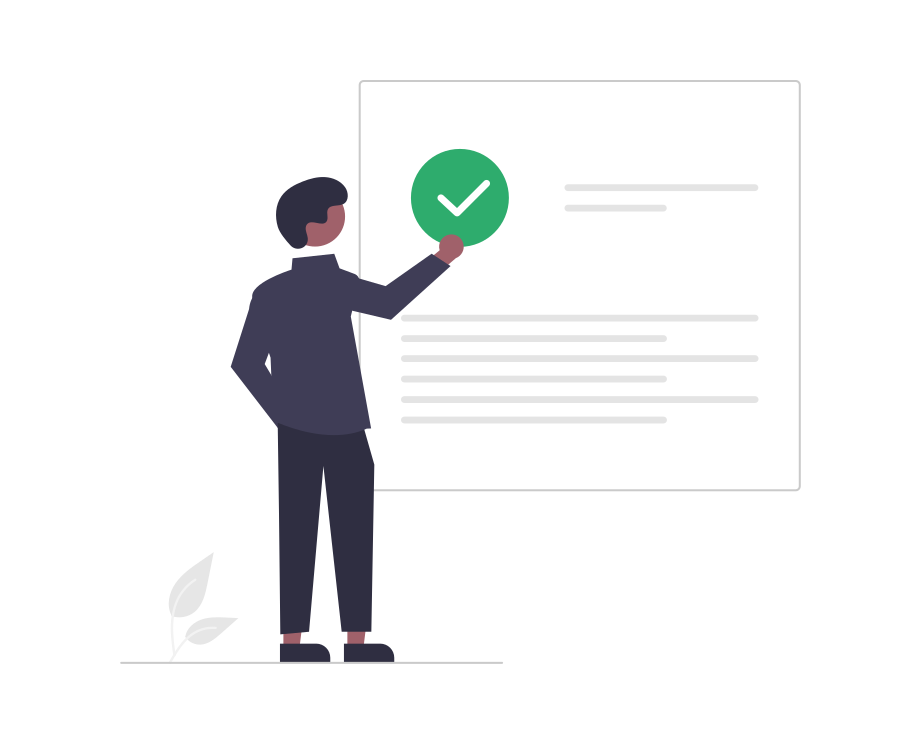
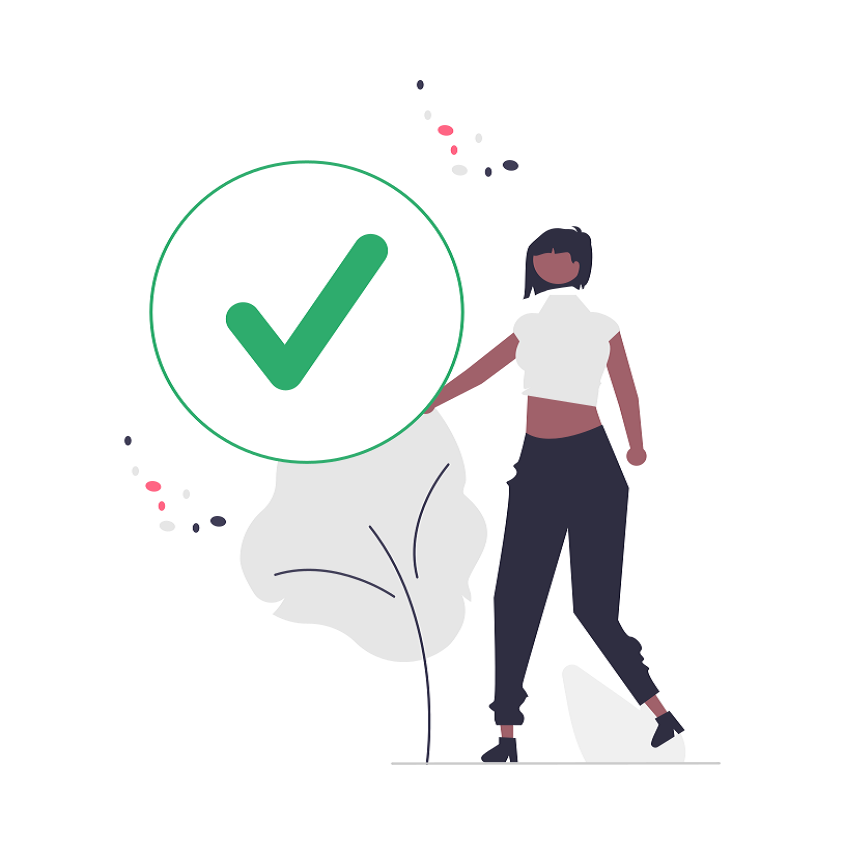
Court create design refactored

diff --git a/src/components/createCourt/CreateCourt.jsx b/src/components/createCourt/CreateCourt.jsx
@@ -1,6 +1,7 @@
 import React, { useEffect, useState } from 'react';
 import './style.css';
-import { FormControl, Stack, Typography, MenuItem, TextField, Button, Select, InputLabel, Box, Breadcrumbs, Link, IconButton, Tooltip } from '@mui/material';
+import { FormControl, Stack, Typography, MenuItem, TextField, Button, Select, InputLabel, Box, Breadcrumbs, Link, Tooltip } from '@mui/material';
+import LoadingButton from '@mui/lab/LoadingButton';
 import { getActiveCourts, createCourt } from '../../services/CourtService';
 import getAuthHeader from '../../helpers/getAuthHeader';
 import { useTranslation } from 'react-i18next';
@@ -8,6 +9,7 @@ import { Outlet, useNavigate } from 'react-router';
 import { useCookies } from 'react-cookie';
 import ArrowBackSharpIcon from '@mui/icons-material/ArrowBackSharp';
 import createCourtPNG from '../../illustrations/createCourt.png';
+import donePNG from '../../illustrations/done.png';
 import AuthCheck from '../authCheck/AuthCheck';
 import Layout from '../layout/Layout';
 
@@ -20,7 +22,10 @@ const CreateCourt = () => {
     const [activeCourts, setActiveCourts] = useState([]);
     const [selectedParentCourtId, setSelectedParentCourtId] = useState("");
     const [newCourtName, setNewCourtName] = useState(null);
-    const [created, setCreated] = useState(false);
+    const [isLoading, setIsLoading] = useState(false);
+    const [isError, setIsError] = useState(false);
+    const [errorMessage, setErrorMessage] = useState("");
+    const [isDone, setIsDone] = useState(false);
 
     function fetchActiveCourts() {
         getActiveCourts(getAuthHeader(cookie.username, cookie.password), i18n.language).then((response) => {
@@ -34,7 +39,8 @@ const CreateCourt = () => {
                 navigate("/login");
             }
         }).catch((error) => {
-            console.log(error);
+            setIsError(true);
+            setErrorMessage(t("error.undefined"));
         })
     };
 
@@ -51,21 +57,30 @@ const CreateCourt = () => {
     };
 
     function handleSaveClick() {
+        setIsError(false);
+        setErrorMessage("");
+        setIsLoading(true);
         createCourt({ name: newCourtName, parentId: selectedParentCourtId }, getAuthHeader(cookie.username, cookie.password), i18n.language).then((response) => {
             if (response.data.status === 201) {
-                setCreated(true);
+                setIsDone(true);
             }
             else if (response.data.status === 400) {
-                console.log("error");
+                setIsError(true);
+                setErrorMessage(response.data.error.message);
             }
             else if (response.data.status === 401) {
-                console.log("error");
+                setIsError(true);
+                setErrorMessage(response.data.error.message);
             }
             else if (response.data.status === 403) {
-                console.log("error");
+                setIsError(true);
+                setErrorMessage(response.data.error.message);
             }
         }).catch((error) => {
-            console.log(error);
+            setIsError(true);
+            setErrorMessage(t("error.undefined"));
+        }).finally(() => {
+            setIsLoading(false);
         })
     };
 
@@ -73,17 +88,27 @@ const CreateCourt = () => {
         navigate("/courts");
     }
 
+    function handleBackCourtManagementOnClick() {
+        navigate("/courts");
+    }
+
+    function handleNewCourtOnClick() {
+        setIsDone(false);
+        setIsError(false);
+        setErrorMessage("");
+    }
+
     return (
         <AuthCheck>
             <Layout>
-                <Stack direction="column" sx={{ width: 1, height: 1, justifyContent: "flex-start", alignItems: "center" }}>
+                <Stack direction="column" sx={{ width: 1, height: 1, justifyContent: {xs: "center", sm: "flex-start"}, alignItems: {xs: "center", sm: "center"} }}>
                     <Stack id="title" direction={{ xs: "column", sm: "row" }} spacing={2} sx={{ width: 0.8, justifyContent: "space-between", marginTop: "100px" }}>
                         <Typography variant="h4">
                             {t("court.create")}
                         </Typography>
                         <Tooltip title={t("back")}>
                             <Button variant="outlined" color="text" onClick={handleBackClick}>
-                                <ArrowBackSharpIcon color="text"/>
+                                <ArrowBackSharpIcon color="text" />
                             </Button>
                         </Tooltip>
                     </Stack>
@@ -98,34 +123,59 @@ const CreateCourt = () => {
                             <Typography color="text.primary">{t("court.create")}</Typography>
                         </Breadcrumbs>
                     </Box>
-                    <Stack id="main" direction="row" sx={{ width: 0.8, backgroundColor: "secondary.main", marginTop: "25px" }}>
-                        <Box display="flex" sx={{ width: 0.5, justifyContent: "center" }}>
-                            <img src={createCourtPNG} width="90%"></img>
-                        </Box>
-                        <Stack direction="column" sx={{ width: 0.5, justifyContent: "center", paddingRight: "50px" }}>
-                            <Typography variant="h5">
-                                {t("court.infos")}
-                            </Typography>
-                            <FormControl sx={{ marginTop: "40px"}}>
-                                <InputLabel id="parent-court-select-label">{t("court.parent")}</InputLabel>
-                                <Select
-                                    labelId="parent-court-select-label"
-                                    id="parent-court-select"
-                                    value={selectedParentCourtId}
-                                    label={t("court.parent")}
-                                    onChange={handleSelectedParentCourtChange}
-                                >
-                                    {
-                                        activeCourts.map((court) => <MenuItem key={court.id} value={court.id}>{court.name}</MenuItem>)
-                                    }
-                                </Select>
-                                <TextField required id="court-name" label={t("name")} variant="outlined" sx={{ marginTop: "20px"}} value={newCourtName} onChange={handleNewCourtNameChange} /> 
-                                <Stack direction="row" sx={{ width: 1, justifyContent: "flex-end", marginTop: "30px" }}>
-                                    <Button variant="contained" size="large" sx={{ width: 0.4}} onClick={handleSaveClick}>{t("save")}</Button>
+                    {
+                        isDone === false
+                            ?
+                            <Stack id="main" direction={{ xs: "column", sm: "row"}} sx={{ width: 0.8, justifContent: "center", alignItems: "center", backgroundColor: "secondary.main", marginTop: "25px", paddingRight: {xs: "0px", sm: "20px"}, paddingTop: "20px", paddingBottom: "20px" }}>
+                                <Box display="flex" sx={{ width: 0.5, justifyContent: "center" }}>
+                                    <img src={createCourtPNG} width="90%"></img>
+                                </Box>
+                                <Stack direction="column" sx={{ width: 0.5, justifyContent: "center", alignItems: "center", paddingTop: {xs: "20px", sm: "0px"}}}>
+                                    <Typography variant="h5" sx={{ width: 0.7 }}>
+                                        {t("court.infos")}
+                                    </Typography>
+                                    <FormControl sx={{ marginTop: "40px", width: 0.7 }}>
+                                        <InputLabel id="parent-court-select-label">{t("court.parent")}</InputLabel>
+                                        <Select
+                                            labelId="parent-court-select-label"
+                                            id="parent-court-select"
+                                            value={selectedParentCourtId}
+                                            label={t("court.parent")}
+                                            onChange={handleSelectedParentCourtChange}
+                                        >
+                                            {
+                                                activeCourts.map((court) => <MenuItem key={court.id} value={court.id}>{court.name}</MenuItem>)
+                                            }
+                                        </Select>
+                                        <TextField required id="court-name" label={t("name")} variant="outlined" sx={{ marginTop: "20px" }} value={newCourtName} onChange={handleNewCourtNameChange} />
+                                        <Stack direction="row" sx={{ width: 1, justifyContent: "flex-end", marginTop: "30px" }}>
+                                            {
+                                                isLoading === true
+                                                    ? <LoadingButton loading variant="contained" size="large" sx={{ width: 0.4 }}>{t("save")}</LoadingButton>
+                                                    : <Button variant="contained" size="large" sx={{ width: 0.4 }} onClick={handleSaveClick}>{t("save")}</Button>
+                                            }
+                                        </Stack>
+                                    </FormControl>
                                 </Stack>
-                            </FormControl>
-                        </Stack>
-                    </Stack>
+                            </Stack>
+                            :
+                            <Stack id="main" direction={{ xs: "column", sm: "row"}} sx={{ width: 0.8, justifContent: "center", alignItems: "center", backgroundColor: "secondary.main", marginTop: "25px", paddingRight: {xs: "0px", sm: "20px"}, paddingTop: "20px", paddingBottom: "20px" }}>
+                                <Box display="flex" sx={{ width: 0.5, justifyContent: "center" }}>
+                                    <img src={donePNG} width="90%"></img>
+                                </Box>
+                                <Stack direction="column" sx={{ width: 0.5, justifyContent: "center", alignItems: "center", paddingTop: {xs: "20px", sm: "0px"}}}>
+                                    <Stack direction="column" spacing={8} sx={{ width: 1, alignItems: "center"}}>
+                                        <Typography variant='h5'>
+                                            {t("court.create.successful")}
+                                        </Typography>
+                                        <Stack direction="row" spacing={2} sx={{ width: 1, justifyContent:"center" }}>
+                                            <Button variant="contained" size="large" color="text" sx={{ color: "secondary.main" }} onClick={handleNewCourtOnClick}>{t("court.create")}</Button>
+                                            <Button variant="outlined" size="large" color="text" onClick={handleBackCourtManagementOnClick}>{t("back.court.management")}</Button>
+                                        </Stack>
+                                    </Stack>
+                                </Stack>
+                            </Stack>
+                    }
                 </Stack>
             </Layout>
             <Outlet />
